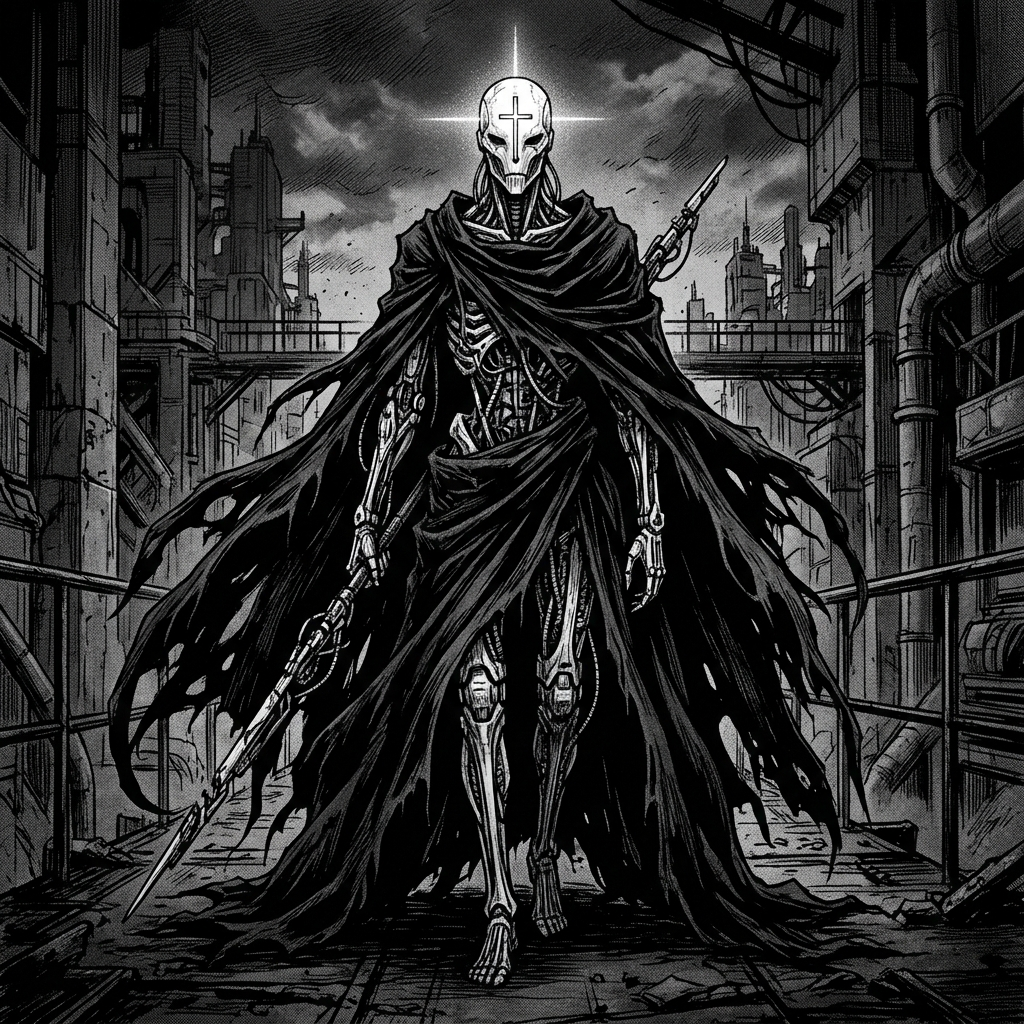
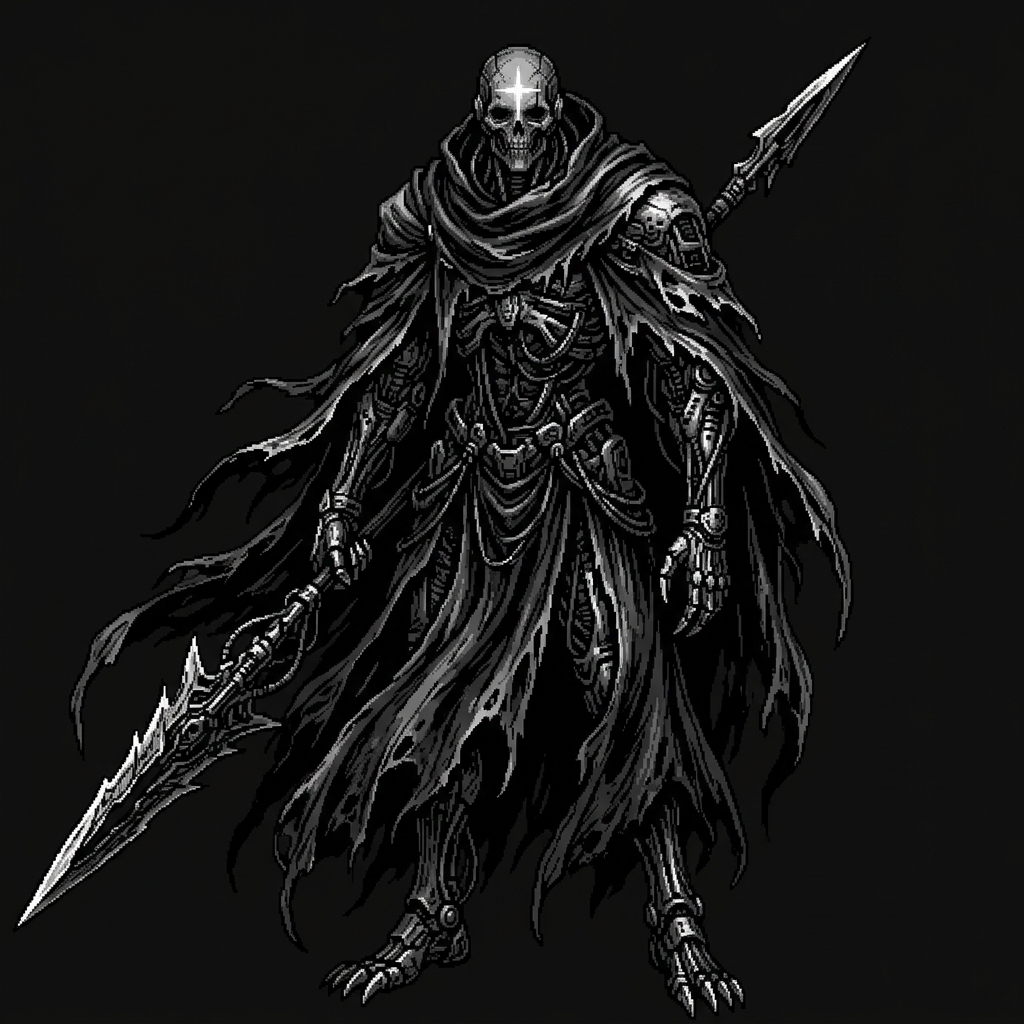
Switch boss to pixel art version and add runtime transparency processing

diff --git a/src/Boss.js b/src/Boss.js
@@ -8,12 +8,23 @@ export class Boss {
         this.height = BOSS_CONFIG.HEIGHT;
         this.hp = BOSS_CONFIG.HP;
         this.maxHp = BOSS_CONFIG.HP;
-        this.image = image;
+        this.rawImage = image;
+        this.processedImage = null;
         this.active = true;
+        this.isSpriteProcessed = false;
         
         this.invincibilityTimer = 0;
         this.moveTimer = 0;
         this.blockTimer = 0;
+
+        // 背景透過処理
+        if (image) {
+            if (image.complete) {
+                this.processSprite();
+            } else {
+                image.onload = () => this.processSprite();
+            }
+        }
         
         // 当たり判定の調整（画像の中央付近に合わせる）
         this.collisionBox = {
@@ -28,6 +39,27 @@ export class Boss {
             width: this.width * BOSS_CONFIG.HEAD_WIDTH_RATIO,
             height: this.height * BOSS_CONFIG.HEAD_HEIGHT_RATIO
         };
+    }
+
+    processSprite() {
+        const canvas = document.createElement('canvas');
+        canvas.width = this.rawImage.width;
+        canvas.height = this.rawImage.height;
+        const ctx = canvas.getContext('2d');
+        ctx.drawImage(this.rawImage, 0, 0);
+
+        let imageData = ctx.getImageData(0, 0, canvas.width, canvas.height);
+        let data = imageData.data;
+        for (let i = 0; i < data.length; i += 4) {
+            // 暗い色（背景の黒）を透明にする
+            if (data[i] < 45 && data[i+1] < 45 && data[i+2] < 45) {
+                data[i+3] = 0;
+            }
+        }
+        ctx.putImageData(imageData, 0, 0);
+        this.processedImage = new Image();
+        this.processedImage.src = canvas.toDataURL();
+        this.isSpriteProcessed = true;
     }
 
     update(deltaTime) {
@@ -56,8 +88,11 @@ export class Boss {
         }
 
         // ボス本体の描画
-        if (this.image && this.image.complete) {
-            ctx.drawImage(this.image, this.x, this.y, this.width, this.height);
+        if (this.isSpriteProcessed && this.processedImage) {
+            ctx.drawImage(this.processedImage, this.x, this.y, this.width, this.height);
+        } else if (this.rawImage && this.rawImage.complete) {
+            // 処理前の画像を表示（フォールバック）
+            ctx.drawImage(this.rawImage, this.x, this.y, this.width, this.height);
         } else {
             // フォールバック
             ctx.fillStyle = '#ff0000';